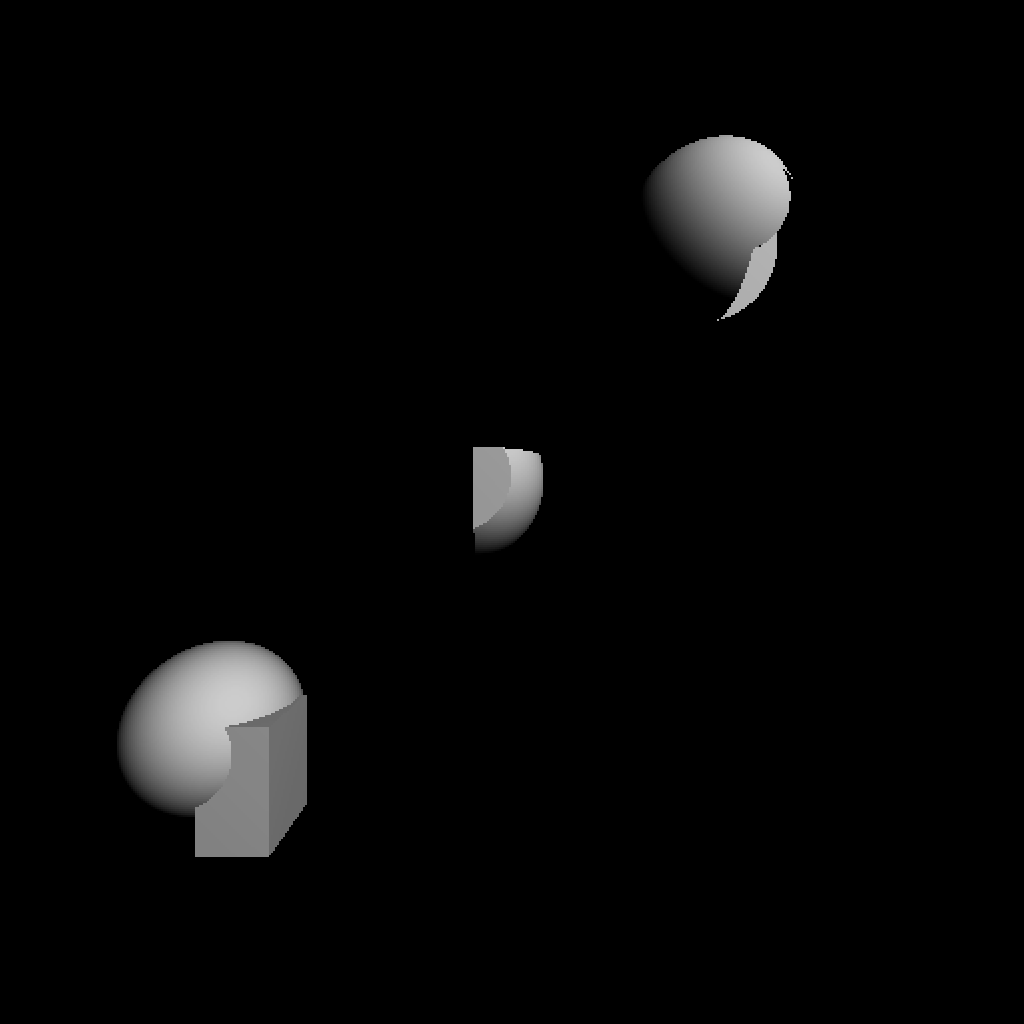
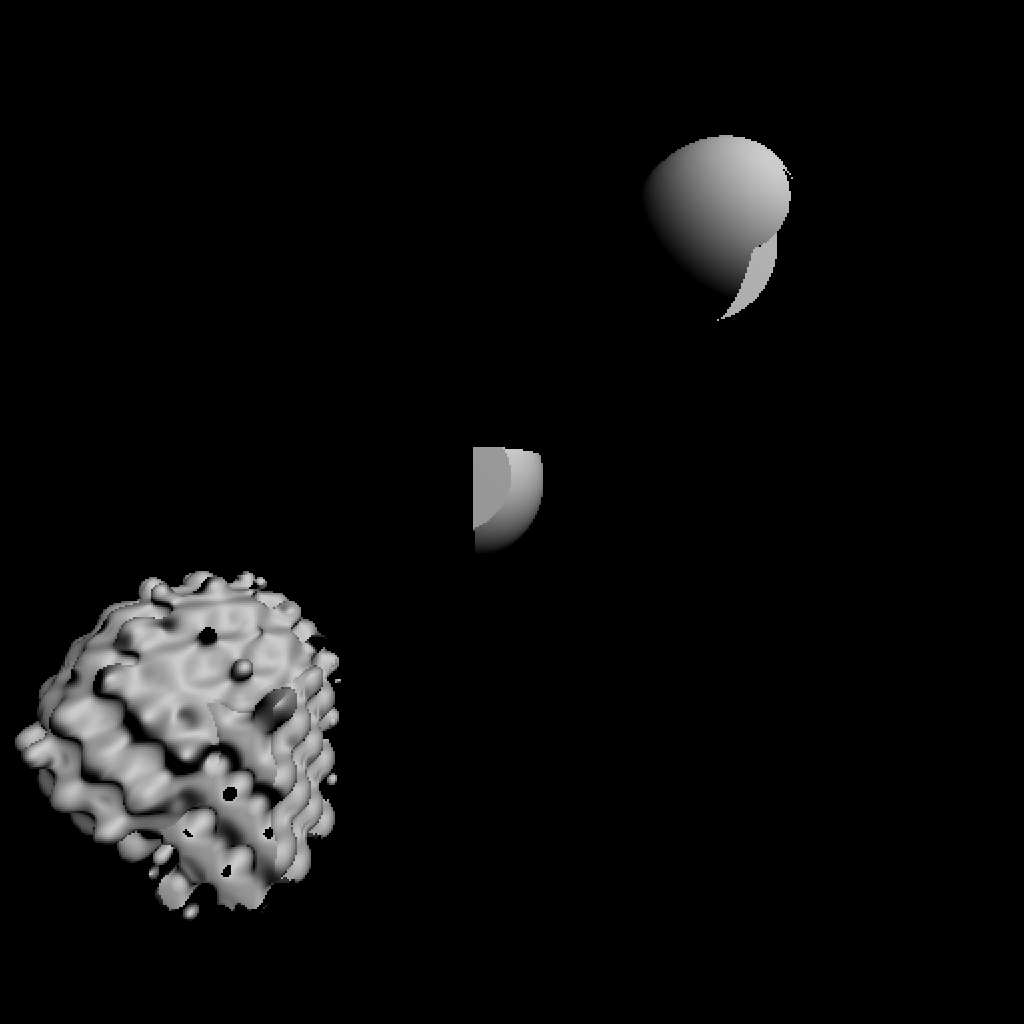
Add sine displacement

Changed region(s): [[0.0, 0.5625, 0.3438, 0.9062]]

diff --git a/RayMarcher.java b/RayMarcher.java
@@ -8,7 +8,7 @@ public class RayMarcher
 	// Get the normal vector by finite difference
 	private static Vector3d normal(SDF obj, Vector3d p)
 	{
-		final double eps = 1e-6;
+		final double eps = 1e-5;
 
 		double d = obj.dist(p);
 		var xMove = new Vector3d(p);
@@ -26,7 +26,7 @@ public class RayMarcher
 	private static SDF rayMarch(Vector3d p, Vector3d dir)
 	{
 		final int maxStepCnt = 200;
-		final double minStepSize = 0.001;
+		final double minStepSize = 1e-3;
 
 		for (int i = 0; i < maxStepCnt; ++i)
 		{
@@ -59,7 +59,7 @@ public class RayMarcher
 
 		var sphere = new Translate(new Sphere(1), new Vector3d(-0.6, 0.4, 0.3));
 		var box = new Box(new Vector3d(0.4, 0.7, 0.5));
-		objs.add(new Translate(new Union(sphere, box), new Vector3d(-3, -3, 6)));
+		objs.add(new Translate(new DisplaceSin(new Union(sphere, box), 12, 0.15), new Vector3d(-2, -2, 4)));
 		objs.add(new Translate(new Intersect(sphere, box), new Vector3d(0, 0, 6)));
 		objs.add(new Translate(new Subtract(sphere, box), new Vector3d(3, 3, 6)));
 

diff --git a/DisplaceSin.java b/DisplaceSin.java
@@ -1,0 +1,32 @@
+import javax.vecmath.*;
+
+public class DisplaceSin implements SDF
+{
+	private final SDF sdf;
+	private final double freq;
+	private final double amp;
+
+	public DisplaceSin(SDF sdf, double freq, double amp)
+	{
+		this.sdf = sdf;
+		this.freq = freq;
+		this.amp = amp;
+	}
+
+	private double disp(Vector3d p)
+	{
+		return Math.sin(freq * p.x) * Math.sin(freq * p.y) * Math.sin(freq * p.z) * amp;
+	}
+
+	@Override
+	public double dist(Vector3d p)
+	{
+		return sdf.dist(p) + disp(p);
+	}
+
+	@Override
+	public double distMin(Vector3d p)
+	{
+		return sdf.distMin(p) + disp(p);
+	}
+}
